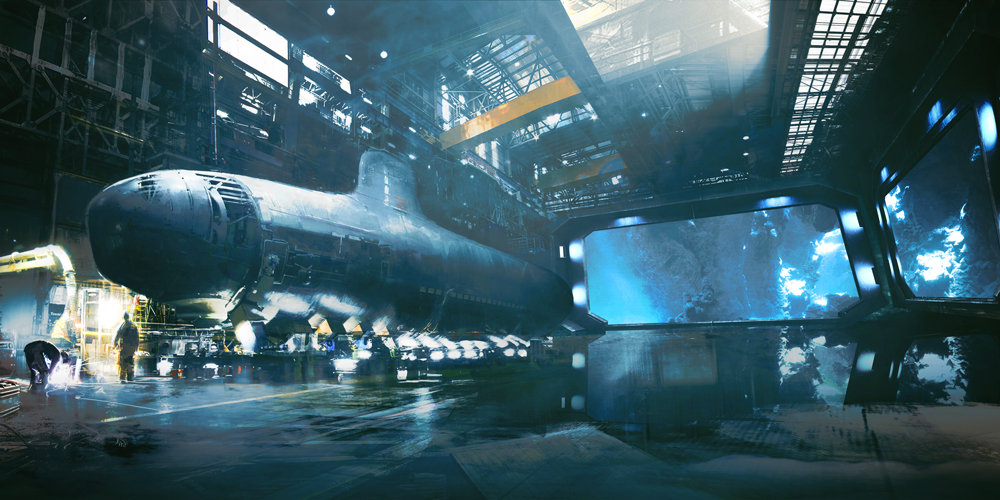
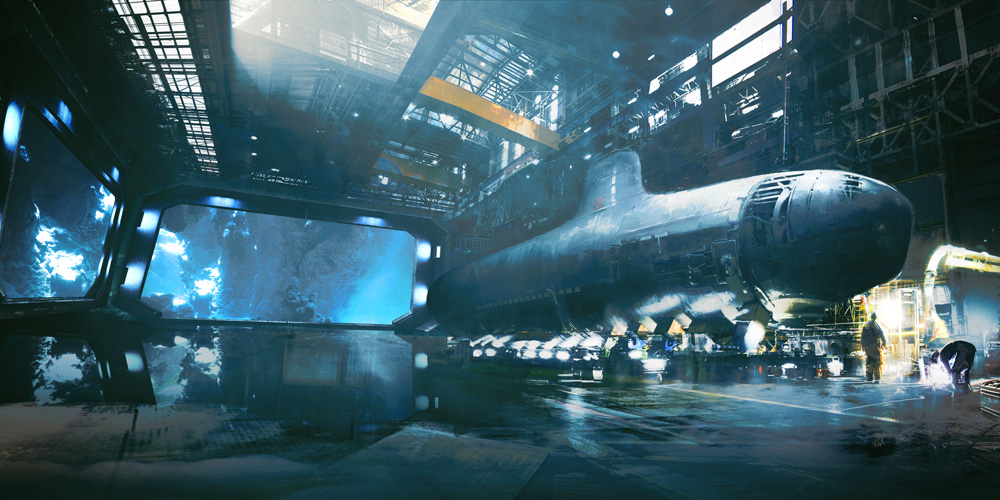
Use location portraits as the main menu background, removed unnecessary fields from MainMenuScreen

diff --git a/Barotrauma/BarotraumaClient/Source/Screens/MainMenuScreen.cs b/Barotrauma/BarotraumaClient/Source/Screens/MainMenuScreen.cs
@@ -18,11 +18,7 @@ namespace Barotrauma
     {
         public enum Tab { NewGame = 1, LoadGame = 2, HostServer = 3, Settings = 4, Tutorials = 5, JoinServer = 6, CharacterEditor = 7, SubmarineEditor = 8, QuickStartDev = 9, SteamWorkshop = 10 }
 
-        private GUIComponent buttonsParent, 
-                             campaignHolder, multiplayerHolder, customizeHolder, optionHolder, 
-                             campaignNavigation, multiplayerNavigation, customizeNavigation, 
-                             campaignButtons, multiplayerButtons, customizeButtons, optionButtons, 
-                             campaignList, multiplayerList, customizeList, optionList;
+        private GUIComponent buttonsParent;
 
         private GUIFrame[] menuTabs;
 
@@ -37,10 +33,11 @@ namespace Barotrauma
 
         private Tab selectedTab;
 
+        private Sprite backgroundSprite;
+
         #region Creation
         public MainMenuScreen(GameMain game)
         {
-
             buttonsParent = new GUILayoutGroup(new RectTransform(new Vector2(0.5f, 0.85f), parent: Frame.RectTransform, anchor: Anchor.BottomLeft, pivot: Pivot.BottomLeft)
             {
                 RelativeOffset = new Vector2(0, 0),
@@ -50,10 +47,9 @@ namespace Barotrauma
                 Stretch = true,
                 RelativeSpacing = 0.02f
             };
-
-
+            
             // === CAMPAIGN
-            campaignHolder = new GUILayoutGroup(new RectTransform(new Vector2(0.5f, 1.0f), parent: buttonsParent.RectTransform) { RelativeOffset = new Vector2(0.1f, 0.0f) }, isHorizontal: true);
+            var campaignHolder = new GUILayoutGroup(new RectTransform(new Vector2(0.5f, 1.0f), parent: buttonsParent.RectTransform) { RelativeOffset = new Vector2(0.1f, 0.0f) }, isHorizontal: true);
 
             new GUIImage(new RectTransform(new Vector2(0.2f, 0.7f), campaignHolder.RectTransform), "MainMenuCampaignIcon")
             {
@@ -63,14 +59,14 @@ namespace Barotrauma
             //spacing
             new GUIFrame(new RectTransform(new Vector2(0.02f, 0.0f), campaignHolder.RectTransform), style: null);
 
-            campaignNavigation = new GUILayoutGroup(new RectTransform(new Vector2(0.75f, 0.75f), parent: campaignHolder.RectTransform) { RelativeOffset = new Vector2(0.0f, 0.25f) });
+            var campaignNavigation = new GUILayoutGroup(new RectTransform(new Vector2(0.75f, 0.75f), parent: campaignHolder.RectTransform) { RelativeOffset = new Vector2(0.0f, 0.25f) });
 
             new GUITextBlock(new RectTransform(new Vector2(1.0f, 0.15f), campaignNavigation.RectTransform),
                 TextManager.Get("CampaignLabel"), textAlignment: Alignment.Left, font: GUI.LargeFont, textColor: Color.Black, style: "MainMenuGUITextBlock") { ForceUpperCase = true };
 
-            campaignButtons = new GUIFrame(new RectTransform(new Vector2(1.0f, 1.0f), parent: campaignNavigation.RectTransform), style: "MainMenuGUIFrame");
+            var campaignButtons = new GUIFrame(new RectTransform(new Vector2(1.0f, 1.0f), parent: campaignNavigation.RectTransform), style: "MainMenuGUIFrame");
 
-            campaignList = new GUILayoutGroup(new RectTransform(new Vector2(0.8f, 0.15f), parent: campaignButtons.RectTransform))
+            var campaignList = new GUILayoutGroup(new RectTransform(new Vector2(0.8f, 0.15f), parent: campaignButtons.RectTransform))
             {
                 Stretch = false,
                 RelativeSpacing = 0.035f
@@ -99,7 +95,7 @@ namespace Barotrauma
             };
 
             // === MULTIPLAYER
-            multiplayerHolder = new GUILayoutGroup(new RectTransform(new Vector2(0.5f, 1.0f), parent: buttonsParent.RectTransform) { RelativeOffset = new Vector2(0.05f, 0.0f) }, isHorizontal: true);
+            var multiplayerHolder = new GUILayoutGroup(new RectTransform(new Vector2(0.5f, 1.0f), parent: buttonsParent.RectTransform) { RelativeOffset = new Vector2(0.05f, 0.0f) }, isHorizontal: true);
 
             new GUIImage(new RectTransform(new Vector2(0.2f, 0.7f), multiplayerHolder.RectTransform), "MainMenuMultiplayerIcon")
             {
@@ -109,14 +105,14 @@ namespace Barotrauma
             //spacing
             new GUIFrame(new RectTransform(new Vector2(0.02f, 0.0f), multiplayerHolder.RectTransform), style: null);
 
-            multiplayerNavigation = new GUILayoutGroup(new RectTransform(new Vector2(0.75f, 0.75f), parent: multiplayerHolder.RectTransform) { RelativeOffset = new Vector2(0.0f, 0.25f) });
+            var multiplayerNavigation = new GUILayoutGroup(new RectTransform(new Vector2(0.75f, 0.75f), parent: multiplayerHolder.RectTransform) { RelativeOffset = new Vector2(0.0f, 0.25f) });
 
             new GUITextBlock(new RectTransform(new Vector2(1.0f, 0.15f), multiplayerNavigation.RectTransform),
                 TextManager.Get("MultiplayerLabel"), textAlignment: Alignment.Left, font: GUI.LargeFont, textColor: Color.Black, style: "MainMenuGUITextBlock") { ForceUpperCase = true };
 
-            multiplayerButtons = new GUIFrame(new RectTransform(new Vector2(1.0f, 1.0f), parent: multiplayerNavigation.RectTransform), style: "MainMenuGUIFrame");
+            var multiplayerButtons = new GUIFrame(new RectTransform(new Vector2(1.0f, 1.0f), parent: multiplayerNavigation.RectTransform), style: "MainMenuGUIFrame");
 
-            multiplayerList = new GUILayoutGroup(new RectTransform(new Vector2(0.8f, 0.15f), parent: multiplayerButtons.RectTransform))
+            var multiplayerList = new GUILayoutGroup(new RectTransform(new Vector2(0.8f, 0.15f), parent: multiplayerButtons.RectTransform))
             {
                 Stretch = false,
                 RelativeSpacing = 0.035f
@@ -144,7 +140,7 @@ namespace Barotrauma
             };
 
             // === CUSTOMIZE
-            customizeHolder = new GUILayoutGroup(new RectTransform(new Vector2(0.5f, 1.0f), parent: buttonsParent.RectTransform) { RelativeOffset = new Vector2(0.15f, 0.0f) }, isHorizontal: true);
+            var customizeHolder = new GUILayoutGroup(new RectTransform(new Vector2(0.5f, 1.0f), parent: buttonsParent.RectTransform) { RelativeOffset = new Vector2(0.15f, 0.0f) }, isHorizontal: true);
 
             new GUIImage(new RectTransform(new Vector2(0.2f, 0.7f), customizeHolder.RectTransform), "MainMenuCustomizeIcon")
             {
@@ -154,14 +150,14 @@ namespace Barotrauma
             //spacing
             new GUIFrame(new RectTransform(new Vector2(0.02f, 0.0f), customizeHolder.RectTransform), style: null);
 
-            customizeNavigation = new GUILayoutGroup(new RectTransform(new Vector2(0.75f, 0.75f), parent: customizeHolder.RectTransform) { RelativeOffset = new Vector2(0.0f, 0.25f) });
+            var customizeNavigation = new GUILayoutGroup(new RectTransform(new Vector2(0.75f, 0.75f), parent: customizeHolder.RectTransform) { RelativeOffset = new Vector2(0.0f, 0.25f) });
 
             new GUITextBlock(new RectTransform(new Vector2(1.0f, 0.15f), customizeNavigation.RectTransform),
                 TextManager.Get("CustomizeLabel"), textAlignment: Alignment.Left, font: GUI.LargeFont, textColor: Color.Black, style: "MainMenuGUITextBlock") { ForceUpperCase = true };
 
-            customizeButtons = new GUIFrame(new RectTransform(new Vector2(1.0f, 1.0f), parent: customizeNavigation.RectTransform), style: "MainMenuGUIFrame");
+            var customizeButtons = new GUIFrame(new RectTransform(new Vector2(1.0f, 1.0f), parent: customizeNavigation.RectTransform), style: "MainMenuGUIFrame");
 
-            customizeList = new GUILayoutGroup(new RectTransform(new Vector2(0.8f, 0.15f), parent: customizeButtons.RectTransform))
+            var customizeList = new GUILayoutGroup(new RectTransform(new Vector2(0.8f, 0.15f), parent: customizeButtons.RectTransform))
             {
                 Stretch = false,
                 RelativeSpacing = 0.035f
@@ -201,7 +197,7 @@ namespace Barotrauma
             }
 
             // === OPTION
-            optionHolder = new GUILayoutGroup(new RectTransform(new Vector2(0.5f, 0.5f), parent: buttonsParent.RectTransform), isHorizontal: true);
+            var optionHolder = new GUILayoutGroup(new RectTransform(new Vector2(0.5f, 0.5f), parent: buttonsParent.RectTransform), isHorizontal: true);
 
             new GUIImage(new RectTransform(new Vector2(0.15f, 0.6f), optionHolder.RectTransform), "MainMenuOptionIcon")
             {
@@ -211,9 +207,9 @@ namespace Barotrauma
             //spacing
             new GUIFrame(new RectTransform(new Vector2(0.01f, 0.0f), optionHolder.RectTransform), style: null);
 
-            optionButtons = new GUILayoutGroup(new RectTransform(new Vector2(0.55f, 1.0f), parent: optionHolder.RectTransform) { RelativeOffset = new Vector2(0.0f, 0.15f) });
+            var optionButtons = new GUILayoutGroup(new RectTransform(new Vector2(0.55f, 1.0f), parent: optionHolder.RectTransform) { RelativeOffset = new Vector2(0.0f, 0.15f) });
 
-            optionList = new GUILayoutGroup(new RectTransform(new Vector2(0.8f, 0.15f), parent: optionButtons.RectTransform))
+            var optionList = new GUILayoutGroup(new RectTransform(new Vector2(0.8f, 0.15f), parent: optionButtons.RectTransform))
             {
                 Stretch = false,
                 RelativeSpacing = 0.035f
@@ -671,10 +667,14 @@ namespace Barotrauma
 
         public override void Draw(double deltaTime, GraphicsDevice graphics, SpriteBatch spriteBatch)
         {
-            graphics.Clear(Color.CornflowerBlue);
+            graphics.Clear(Color.Black);
 
-            GameMain.TitleScreen.DrawLoadingText = false;
-            GameMain.TitleScreen.Draw(spriteBatch, graphics, (float)deltaTime);
+            if (backgroundSprite == null)
+            {
+                backgroundSprite = (LocationType.List.Where(l => l.UseInMainMenu).GetRandom()).GetPortrait(0);
+            }
+
+            if (backgroundSprite != null) { GUI.DrawBackgroundSprite(spriteBatch, backgroundSprite); }
 
             spriteBatch.Begin(SpriteSortMode.Deferred, null, null, null, GameMain.ScissorTestEnable);
 

diff --git a/Barotrauma/BarotraumaShared/Source/Map/Map/LocationType.cs b/Barotrauma/BarotraumaShared/Source/Map/Map/LocationType.cs
@@ -30,6 +30,12 @@ namespace Barotrauma
         public readonly string Name;
 
         public readonly List<LocationTypeChange> CanChangeTo = new List<LocationTypeChange>();
+
+        public bool UseInMainMenu
+        {
+            get;
+            private set;
+        }
         
         public List<string> NameFormats
         {
@@ -57,6 +63,7 @@ namespace Barotrauma
             Identifier = element.GetAttributeString("identifier", element.Name.ToString());
             Name = TextManager.Get("LocationName." + Identifier);
             nameFormats = TextManager.GetAll("LocationNameFormat." + Identifier);
+            UseInMainMenu = element.GetAttributeBool("useinmainmenu", false);
 
             string nameFile = element.GetAttributeString("namefile", "Content/Map/locationNames.txt");
             try
